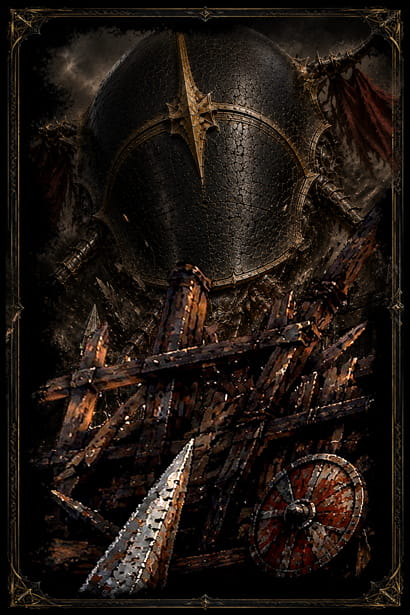
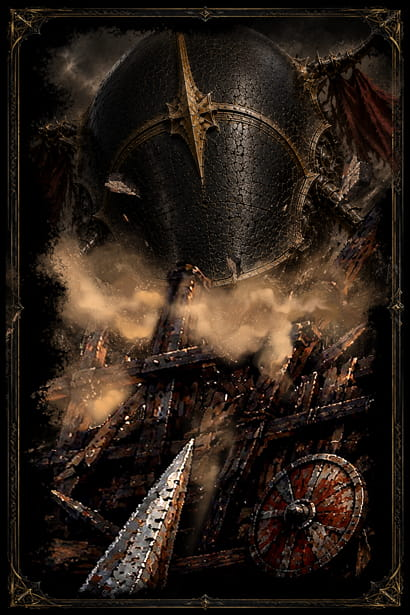
Update cockroach hunt scenario test assets

diff --git a/docs/js/events/cockRoachHunt.js b/docs/js/events/cockRoachHunt.js
@@ -6,6 +6,7 @@ const ARRIVAL_IMAGE = './media/lore/events/cockroachking-arrival.jpg';
 const BARRICADE_SUCCESS_IMAGE = './media/lore/events/cockroachking-barricade-success.jpg';
 const BARRICADE_IMAGE = './media/lore/events/cockroachking-barricade.jpg';
 const BARRICADE_CHARGE_IMAGE = './media/lore/events/cockroachking-charge-barricade.jpg';
+const BARRICADE_CHARGE_SUCCESS = './media/lore/events/cockroachking-barricade-success-charge.jpg';
 
 const BARRICADE_DAMAGE_PERCENT = 25;
 const C1_FAIL_DAMAGE_PERCENT = 30;
@@ -138,7 +139,7 @@ function cockroachKingSpawnResult(king) {
         serial: COCKROACH_KING_SERIAL,
         side: 'B'
       },
-      html: 'Le Souverain des Blattes est apparu.',
+      html: 'Le Souverain des Blattes apparaît dans le niveau.',
       classes: ['event-result-entity-spawned', 'spawn']
     }]
   };
@@ -340,7 +341,7 @@ const SCENARIO_1_FAIL = Object.freeze({
       id: `${EVENT_ID}-c1-fail-d1`,
       cinematic: 'hard',
       img: ARRIVAL_IMAGE,
-      text: 'Le Roi des Blattes traverse vos rangs dispersés. Sa charge projette les combattants au sol tandis que ses mandibules se referment sur tout ce qui est à leur portée, détruisant tout sur son passage.',
+      text: 'Le Souverain des Blattes traverse vos rangs dispersés. Sa charge projette les combattants au sol tandis que ses mandibules se referment sur tout ce qui est à leur portée, détruisant tout sur son passage.',
       next: `${EVENT_ID}-c1-fail-attack`
     }),
 
@@ -378,17 +379,17 @@ const SCENARIO_1 = Object.freeze({
     id: `${EVENT_ID}-c1`,
     text: 'Vous tentez de disparaître avant son arrivée.',
     resolution: createResolution('agility', {
-      // TEST SCÉNARIO 1 / MIDDLE : réactiver après validation.
+      // TEST SCÉNARIO 1 / FAIL : réactiver les autres après validation.
       // success: SCENARIO_1_SUCCESS.resolution,
-      middle: SCENARIO_1_MIDDLE.resolution,
-      // fail: SCENARIO_1_FAIL.resolution
+      // middle: SCENARIO_1_MIDDLE.resolution,
+      fail: SCENARIO_1_FAIL.resolution
     })
   }),
   nodes: Object.freeze({
-    // TEST SCÉNARIO 1 / MIDDLE : réactiver après validation.
+    // TEST SCÉNARIO 1 / FAIL : réactiver les autres après validation.
     // ...SCENARIO_1_SUCCESS.nodes,
-    ...SCENARIO_1_MIDDLE.nodes,
-    // ...SCENARIO_1_FAIL.nodes
+    // ...SCENARIO_1_MIDDLE.nodes,
+    ...SCENARIO_1_FAIL.nodes
   })
 });
 
@@ -405,7 +406,7 @@ const SCENARIO_2_SUCCESS = Object.freeze({
       outcome: 'success',
       cinematic: 'hard',
       img: BARRICADE_SUCCESS_IMAGE,
-      text: 'Vos entités les plus robustes se placent derrière la barricade. Le sol tremble de plus en plus fort, mais personne ne cède.',
+      text: 'Vos robustes entités sont parvenues à dresser une barricade solide avec des objets lourds.<br>En plus d\'être solide, elle est réalisée à temps, permettant à votre armée de se réfugier derrière, à l\'approche des tremblements qui se rapprochent de plus en plus...',
       next: `${EVENT_ID}-c2-success-spawn`
     }),
 
@@ -419,8 +420,8 @@ const SCENARIO_2_SUCCESS = Object.freeze({
     [`${EVENT_ID}-c2-success-d1`]: dialogueScreen({
       id: `${EVENT_ID}-c2-success-d1`,
       cinematic: 'hard',
-      img: ARRIVAL_IMAGE,
-      text: 'Le Roi des Blattes surgit et percute la barricade de plein fouet. Le bois gémit, les attaches se tendent, mais l’ensemble tient.',
+      img: BARRICADE_CHARGE_SUCCESS,
+      text: 'Une immense forme noire surgit de nulle part et percute furieusement la barricade de plein fouet.<br><br>Le choc est incroyablement violent.<br>Dans un nuage de poussière, vous entendez le bois gémir, les attaches se tendent...<br>Les matériaux encaissent le choc tant bien que mal, mais le tout tient !',
       next: `${EVENT_ID}-c2-success-damage`
     }),
 
@@ -434,7 +435,7 @@ const SCENARIO_2_SUCCESS = Object.freeze({
     [`${EVENT_ID}-c2-success-d2`]: dialogueScreen({
       id: `${EVENT_ID}-c2-success-d2`,
       cinematic: 'hard',
-      text: 'La créature recule, sonnée. Vos rangs se reforment derrière la barricade, puis chargent avant qu’elle ne retrouve son équilibre.',
+      text: 'La créature est sonnée par l\'impact. Lacérée par les débris de la barricade, elle recule.<br> Les rangs se reforment et chargent en avant dans un élan de bravoure.',
       next: `${EVENT_ID}-c2-success-result`
     }),
 
@@ -442,7 +443,7 @@ const SCENARIO_2_SUCCESS = Object.freeze({
       id: `${EVENT_ID}-c2-success-result`,
       cinematic: 'hard',
       includeResults: true,
-      text: `Le choc blesse le Roi des Blattes et lui fait perdre ${BARRICADE_DAMAGE_PERCENT} % de ses HP actuels.`,
+      text: `Le choc blesse le Souverain des Blattes et lui fait perdre ${BARRICADE_DAMAGE_PERCENT} % de ses HP actuels.`,
       next: `${EVENT_ID}-c2-success-battle`
     }),
 
@@ -490,7 +491,7 @@ const SCENARIO_2_MIDDLE = Object.freeze({
     [`${EVENT_ID}-c2-middle-d2`]: dialogueScreen({
       id: `${EVENT_ID}-c2-middle-d2`,
       cinematic: 'hard',
-      text: 'Le Roi des Blattes cesse de s’acharner sur les débris lorsqu’il vous aperçoit. Il se jette furieusement sur votre armée.',
+      text: 'Le Souverain des Blattes cesse de s’acharner sur les débris lorsqu’il vous aperçoit. Il se jette furieusement sur votre armée.',
       next: `${EVENT_ID}-c2-middle-result`
     }),
 
@@ -512,16 +513,18 @@ const SCENARIO_2_MIDDLE = Object.freeze({
 const SCENARIO_2 = Object.freeze({
   choice: Object.freeze({
     id: `${EVENT_ID}-c2`,
-    text: 'Vous dressez une barricade avec ce que vous trouvez et attendez fermement la charge.',
+    text: 'Vous tentez de dresser une barricade avec ce que vous trouvez et attendez fermement la charge.',
     img: ARRIVAL_IMAGE,
     resolution: createResolution('strength', {
-      success: SCENARIO_2_SUCCESS.resolution,
-      middle: SCENARIO_2_MIDDLE.resolution
+      // TEST SCÉNARIO 2 / SUCCESS : réactiver les autres après validation.
+      success: SCENARIO_2_SUCCESS.resolution
+      // middle: SCENARIO_2_MIDDLE.resolution
     })
   }),
   nodes: Object.freeze({
-    ...SCENARIO_2_SUCCESS.nodes,
-    ...SCENARIO_2_MIDDLE.nodes
+    // TEST SCÉNARIO 2 / SUCCESS : réactiver les autres après validation.
+    ...SCENARIO_2_SUCCESS.nodes
+    // ...SCENARIO_2_MIDDLE.nodes
   })
 });
 
@@ -579,15 +582,15 @@ export const cockRoachHuntEvent = Object.freeze({
       cinematic: 'hard',
       text: 'Vous n’avez que quelques secondes pour réagir.',
       choices: [
-        SCENARIO_1.choice
-        // TEST SCÉNARIO 1 / MIDDLE : réactiver après validation.
-        // SCENARIO_2.choice
+        // TEST SCÉNARIO 2 / SUCCESS : seul le scénario 2 est actif.
+        // SCENARIO_1.choice
+        SCENARIO_2.choice
       ]
     }),
 
-    ...SCENARIO_1.nodes
-    // TEST SCÉNARIO 1 / MIDDLE : réactiver après validation.
-    // ...SCENARIO_2.nodes
+    // TEST SCÉNARIO 2 / SUCCESS : seul le scénario 2 est actif.
+    // ...SCENARIO_1.nodes
+    ...SCENARIO_2.nodes
   }),
 
   actions: Object.freeze({
